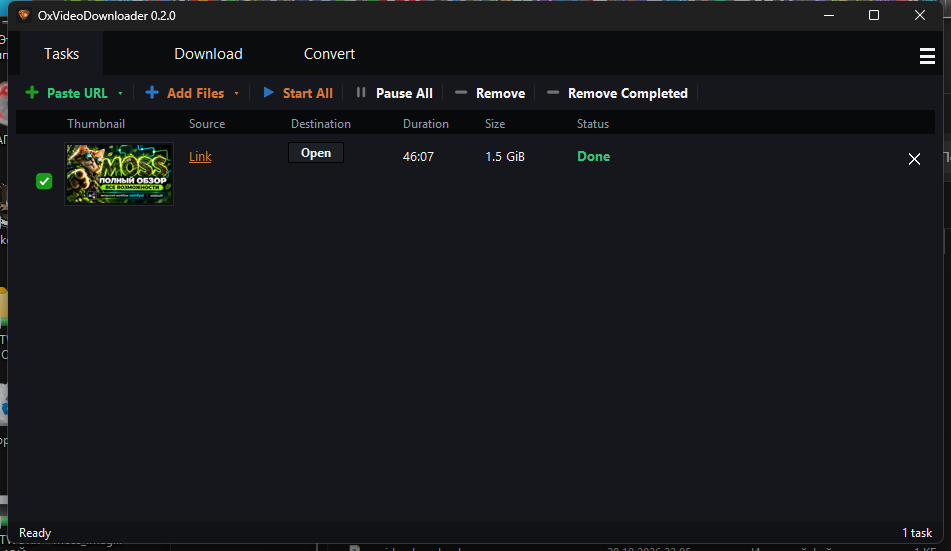
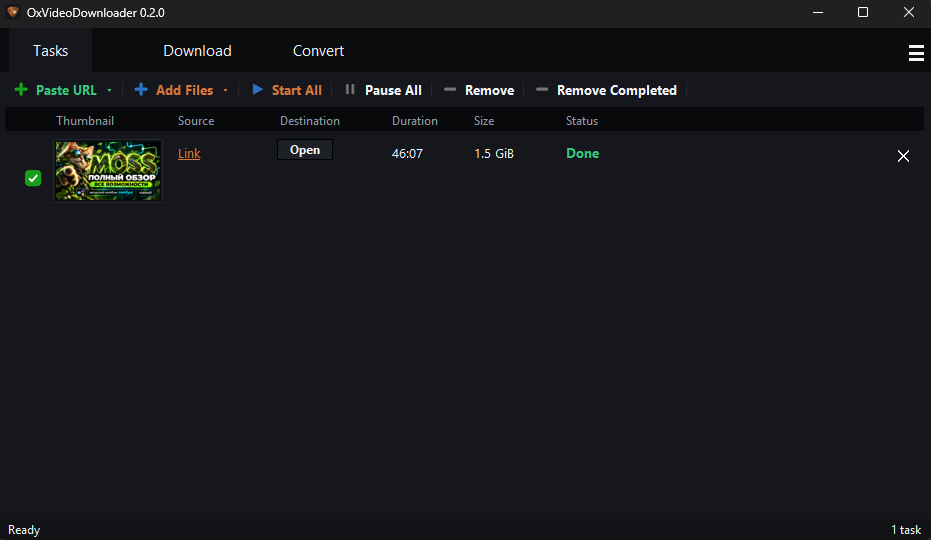
1.1.2

diff --git a/oxvd/core.py b/oxvd/core.py
@@ -352,6 +352,7 @@ def run_download(t, cfg, thumb_dir):
             with yt_dlp.YoutubeDL(opts) as ydl:
                 ydl.download([t.source])
             _locate_output(t)
+            ensure_thumbnail(t, cfg, thumb_dir)
             cv = t.dl_opts.get("cv") or {}
             if cv.get("container") and t.final_path and t.interrupt is None:
                 _post_convert(t, cfg)
@@ -532,6 +533,43 @@ def _grab_thumbnail(url, dest):
     except OSError:
         return False
     return True
+
+
+def ensure_thumbnail(t, cfg, thumb_dir):
+    """Create a preview from the downloaded video when its CDN thumbnail
+    could not be fetched.  This keeps previews working on networks where
+    hosts such as i.ytimg.com are blocked or time out."""
+    vid = t.thumb_path
+    src = t.final_path
+    ffmpeg = cfg.get("ffmpeg")
+    if (not vid or not src or not ffmpeg or not thumb_dir
+            or thumb_cached(thumb_dir, vid)
+            or not os.path.isfile(src)):
+        return False
+    os.makedirs(thumb_dir, exist_ok=True)
+    dest = os.path.join(thumb_dir, f"{vid}.jpg")
+    tmp = os.path.join(thumb_dir, f"{vid}.tmp.jpg")
+    cmd = [ffmpeg, "-y", "-nostdin", "-loglevel", "error",
+           "-ss", "1", "-i", src, "-map", "0:v:0", "-frames:v", "1",
+           "-vf", "scale=320:-2", "-q:v", "3", tmp]
+    try:
+        result = subprocess.run(
+            cmd, stdout=subprocess.DEVNULL, stderr=subprocess.DEVNULL,
+            timeout=30,
+            creationflags=getattr(subprocess, "CREATE_NO_WINDOW", 0))
+        if result.returncode == 0:
+            with open(tmp, "rb") as f:
+                valid = _image_head_ok(f.read(12))
+            if valid:
+                os.replace(tmp, dest)
+                return True
+    except (OSError, subprocess.SubprocessError):
+        pass
+    try:
+        os.remove(tmp)
+    except OSError:
+        pass
+    return False
 
 
 def _make_hook(t, thumb_dir):

diff --git a/launcher/launcher.cs b/launcher/launcher.cs
@@ -3,6 +3,7 @@
 using System;
 using System.Diagnostics;
 using System.IO;
+using System.Windows.Forms;
 
 class Launcher
 {
@@ -12,6 +13,23 @@ class Launcher
         string python = Path.Combine(dir, "python", "pythonw.exe");
         if (!File.Exists(python))
             python = Path.Combine(dir, "python", "python.exe");
+        if (!File.Exists(python))
+        {
+            string installer = Path.Combine(dir, "INSTALL.bat");
+            if (File.Exists(installer) && MessageBox.Show(
+                    "The portable Python environment is missing.\n\nRun INSTALL.bat now?",
+                    "OxVideoDownloader", MessageBoxButtons.YesNo,
+                    MessageBoxIcon.Information) == DialogResult.Yes)
+            {
+                Process.Start(new ProcessStartInfo
+                {
+                    FileName = installer,
+                    WorkingDirectory = dir,
+                    UseShellExecute = true,
+                });
+            }
+            return;
+        }
         string script = Path.Combine(dir, "oxvideodownloader.py");
         var psi = new ProcessStartInfo
         {

diff --git a/oxvd/ui.py b/oxvd/ui.py
@@ -1588,6 +1588,14 @@ class App:
             if t.thumb_path:
                 self._note_thumb(t)
             if (t.status == "Done" and t.kind == "download"
+                    and t.thumb_path and t.final_path
+                    and not core.thumb_cached(THUMB_DIR, t.thumb_path)
+                    and not getattr(t, "_thumb_repair", False)):
+                t._thumb_repair = True
+                threading.Thread(
+                    target=core.ensure_thumbnail,
+                    args=(t, self._env, THUMB_DIR), daemon=True).start()
+            if (t.status == "Done" and t.kind == "download"
                     and not t.final_path and not getattr(t, "_loc", False)):
                 t._loc = True
                 core._locate_output(t)   # fill final_path for the size column

diff --git a/README.md b/README.md
@@ -56,16 +56,30 @@
 
 ### 📦 Getting Started
 
-1. **Get the code:** Run `git clone` on the repository (or download and unzip the archive).
-2. **Choose how to run:**
-   - **A) Bring your own Python:** Install Python 3.12+ x64 with `pip`, install dependencies via `pip install -r requirements.txt`, then run `python oxvideodownloader.py` or double-click `"OxVideo Downloader.bat"`.
-   - **B) Portable mode:** Place an embeddable Python 3.12 x64 environment (with `pip` and `requirements.txt` packages installed) inside a `python\` subfolder next to the app, then double-click `"OxVideo Downloader.exe"`.
-3. **First launch:** The application checks for `FFmpeg` inside `ffmpeg\` and downloads the required binaries automatically.
+Choose one of these installation methods:
+
+1. **Ready-made portable build (recommended):** Download the latest archive from [GitHub Releases](https://github.com/orex2121/OxVideoDownloader/releases), extract it to any writable folder, and run `"OxVideo Downloader.exe"`. The portable package already contains the Python environment, all dependencies, and FFmpeg. No installation is required.
+2. **Build from the repository:** Download or clone [the repository](https://github.com/orex2121/OxVideoDownloader), then double-click `INSTALL.bat`. It downloads the official Python 3.12 x64 installer, installs Python with Tkinter into the local `python\` folder, installs the packages from `requirements.txt`, and verifies the result. Run `"OxVideo Downloader.exe"` afterward. FFmpeg is downloaded automatically on the first application start.
+
+After either method, the entire application folder can be moved or copied to another Windows x64 computer. A system-wide Python installation is not required.
+
+`python\`, `ffmpeg\`, `config.json`, `tasks.json`, and `.thumbnails\` are intentionally excluded from Git. Therefore a fresh clone is the **source distribution**, not a ready-to-run portable binary package. For a ready-made release, archive the whole folder after running `INSTALL.bat` and completing the first launch.
+
+### 🔄 Updating
+
+1. Close OxVideoDownloader.
+2. Double-click `UPDATE.bat` and wait for the success message.
+3. Start the application normally.
+
+The updater downloads the latest files from the `main` branch of [the GitHub repository](https://github.com/orex2121/OxVideoDownloader), updates Python dependencies, and preserves the local `python\`, `ffmpeg\`, `config.json`, `tasks.json`, and `.thumbnails\` data. An internet connection is required. Do not interrupt the updater while files are being copied.
 
 ### 🗂 Project Layout
 
 ```text
 ├── oxvideodownloader.py   # Application entry point
+├── INSTALL.bat             # Builds the local portable Python environment
+├── UPDATE.bat              # Updates the application from GitHub
+├── update.ps1              # Update implementation used by UPDATE.bat
 ├── oxvd/
 │   ├── core.py            # Download, queue, and FFmpeg conversion logic
 │   ├── ui.py              # Tkinter GUI views and components
@@ -120,16 +134,30 @@
 
 ### 📦 Установка и запуск
 
-1. **Получите исходный код:** Выполните `git clone` репозитория (или скачайте и распакуйте архив).
-2. **Выберите способ запуска:**
-   - **A) Системный Python:** Установите Python 3.12+ x64 с `pip`, установите зависимости командой `pip install -r requirements.txt`, после чего запустите `python oxvideodownloader.py` или дважды кликните по `"OxVideo Downloader.bat"`.
-   - **B) Портативный режим:** Поместите портативное окружение Python 3.12 x64 (с установленным `pip` и пакетами из `requirements.txt`) в подпапку `python\` рядом с приложением, затем дважды кликните по `"OxVideo Downloader.exe"`.
-3. **Первый запуск:** Приложение проверит наличие `FFmpeg` в папке `ffmpeg\` и автоматически докачает необходимые исполняемые файлы.
+Выберите один из двух вариантов установки:
+
+1. **Готовая portable-сборка (рекомендуется):** Скачайте последний архив со страницы [GitHub Releases](https://github.com/orex2121/OxVideoDownloader/releases), распакуйте его в любую доступную для записи папку и запустите `"OxVideo Downloader.exe"`. Готовая portable-сборка уже содержит окружение Python, все зависимости и FFmpeg. Установка не требуется.
+2. **Сборка из репозитория:** Скачайте или клонируйте [репозиторий](https://github.com/orex2121/OxVideoDownloader), затем запустите `INSTALL.bat`. Он скачает официальный установщик Python 3.12 x64, установит Python вместе с Tkinter в локальную папку `python\`, установит пакеты из `requirements.txt` и проверит результат. После этого запустите `"OxVideo Downloader.exe"`. FFmpeg будет автоматически скачан при первом запуске приложения.
+
+После установки всю папку приложения можно переносить или копировать на другой компьютер с Windows x64. Системная установка Python там не требуется.
+
+Папки `python\`, `ffmpeg\`, а также `config.json`, `tasks.json` и `.thumbnails\` намеренно исключены из Git. Поэтому свежий clone — это **исходный дистрибутив**, а не готовая portable-сборка. Для готового релиза заархивируйте всю папку после выполнения `INSTALL.bat` и первого запуска.
+
+### 🔄 Обновление
+
+1. Закройте OxVideoDownloader.
+2. Запустите `UPDATE.bat` и дождитесь сообщения об успешном завершении.
+3. Запустите приложение обычным способом.
+
+Обновлятор скачивает последние файлы из ветки `main` [репозитория GitHub](https://github.com/orex2121/OxVideoDownloader), обновляет зависимости Python и сохраняет локальные папки `python\`, `ffmpeg\`, а также файлы `config.json`, `tasks.json` и `.thumbnails\`. Для обновления требуется интернет. Не прерывайте процесс во время копирования файлов.
 
 ### 🗂 Структура проекта
 
 ```text
 ├── oxvideodownloader.py   # Точка входа приложения
+├── INSTALL.bat             # Создание локального portable-окружения Python
+├── UPDATE.bat              # Обновление приложения с GitHub
+├── update.ps1              # Логика обновления для UPDATE.bat
 ├── oxvd/
 │   ├── core.py            # Логика загрузки, очереди и конвертации через FFmpeg
 │   ├── ui.py              # Компоненты и экраны графического интерфейса Tkinter
